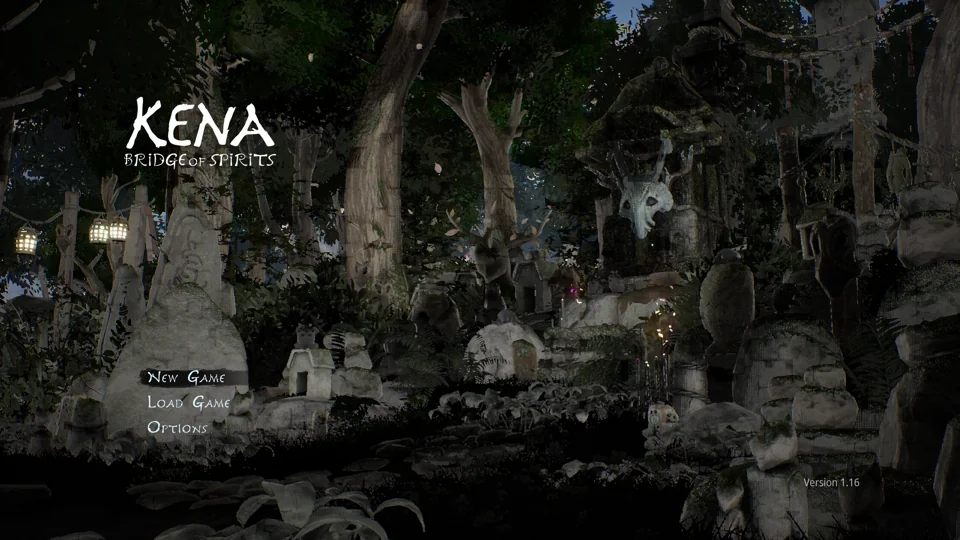
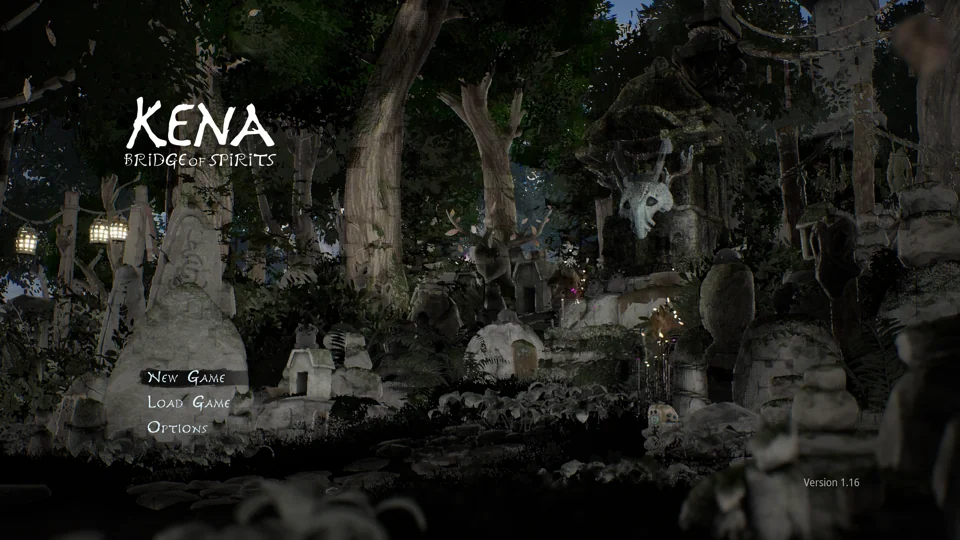
docs: Kena captures and record on current main (fc1d818a9) for #5174
Replaces the 2e44753ed-era captures with a run of this branch on
fc1d818a9: title world on even frames, noise on odd frames (#5175's
flicker, whose fix cannot reach cs 0x5008e80000 while it is refused at
pc692). Records that the pc692 refusal is a dispatcher block-entry EXEC
relation loss (#5173's area), not a never-written word, and points the
blog's flicker reference at #5175.

diff --git a/prosper/docs/gpu/RECOMPILER_REMAINING.md b/prosper/docs/gpu/RECOMPILER_REMAINING.md
@@ -444,7 +444,7 @@ without contradictory new evidence.
 | The corpus `fabricated-fresh-mask-source` group (and the same refusal in `fragment_loop_mask_exec`, `dynfetch_fold`, `rdna2_to_spirv_exec`) is launch-loaded VGPRs that `seed_vector_word_definedness` wrongly marks as placeholders | **Falsified program by program on main `28d4afcdd`.** Over main's 585 distinct-input replay refusals (139 programs, 14 titles), a build that marks the whole recorded launch range defined accepts **0 of 151 compute** replays: every sidecar's `TIDIG_COMP_CNT` already covers each thread-id VGPR read (8x8x1 records 1, 4x4x4 records 2), and the shell binds exactly those. It accepts 299 of 434 fragment replays, but 292 of them (40 programs, 3 titles) are FRONT_FACE in **schema-6 compile-case sidecars that predate #5072** and so cannot record `SPI_BARYC_CNTL`; supplying either encoding compiles all 292 with valid SPIR-V, and all 42 FRONT_FACE-enabled schema-7 sidecars record it. The other 7 (one Kena program) are native-interpolation barycentric old lanes kept by a narrowed write, a value this backend genuinely lacks. The remaining 286 comprise **285 refusals (97 programs) and one incomplete replay**, not 286 verified proof-gap verdicts. The retained source classification of the 98 non-admitted programs identifies 81 that keep a never-written old word outside a narrowed EXEC and later lose that scope; the incomplete replay remains unqualified. The red tests are the same shapes: never-written loop-carried `v8`, a GTA loop scope, and fixtures that read `v1` at `TIDIG_COMP_CNT=0`, `s0` without user SGPRs, or `v2`/`v9`/`v18` with one loaded input. Read `shader_inspect --inputs`'s `inputs-launch` line before attributing a refusal to seeding. | #5146, #5039, #5072 |
 | The dispatcher has no lattice that carries a word's EXEC confinement across a case entry, so one must be added ("confined to the block-entry EXEC", #5173's suggested direction) | **Falsified (#5173).** It exists: the compute Wave64 CFG pass carries `ActiveVectorWords.current`, the MUST set of words genuine in every lane of the CURRENT EXEC, and `load_state` re-anchors each such hard mark to the reloaded EXEC (`restore_active_vector_words`). Its EXEC transfer already keeps a word only through a proved narrowing or a restore of a saved mask whose words it tracks, and clears the set on any other EXEC write; joins intersect. Kena's seven compute programs lost words to two TRANSFER gaps instead: image, LDS and FORMAT-buffer reads never entered the set, and the relay MAY fact tainted a complete write whose sources were genuine in its EXEC (then `s_mov_b64 exec, -1` cleared the set). The suggested transfer is also unsound as worded: `s_and*` "with EXEC as an operand" includes `s_andn2_b64 exec, sX, exec` and `s_andn2_saveexec`, which select lanes OUTSIDE the old EXEC. Fixing the two transfers admits all seven and 28 other corpus programs (32 more refuse later), none newly refused | #5173 |
 | Kena's `fabricated-fresh-mask-source` refusals are one loss of EXEC confinement in the word-mark algebra (`union_marks`), so fixing the meet restores guard-off behaviour (dropped draws about 12.9k to 0.5k) | **Falsified for the algebra alone (#5167).** Traced with a local per-write mark trace over the 20 guard-blocked Kena programs: four arithmetic loss paths (a soft explicit operand vetoing a confined one, LDS and typed-buffer reads not counted as complete active-lane writers, the second if/else arm not completing the saved mask, nested owners met by equality at structured merges) were fixed. They admit 1 Kena program and 7 corpus programs and move 70 corpus refusals later. The remaining Kena losses are **EXEC-relation** losses, not arithmetic: dispatcher block entries re-mark relayed words hard with no owner (7 compute programs), narrowing-loop EXEC phis not admitted (4 programs, #5132's area), and reads of words confined to a narrower or sibling EXEC under a wider one (5 fragment programs; path-dependent or genuine). Two further rules (execz skip-edge restatement, forward-merge EXEC phi subset) changed **zero** of 2474 corpus outcomes and were dropped. A 120 s visible run keeps the title world black: 5,532 dropped draws before, 4,828 after | #5167, #5026 |
-| The gap between Kena's ~4.8k dropped draws (#5172) and the ~0.5k guard-off figure is the never-loaded-VGPR policy question of #5174 | **Falsified once the policy was implemented (#5174).** Admitting a never-written VGPR the launch inventory says hardware does not load changes **no** corpus verdict on its own and no Kena program: by same-binary arms over all 162 changed corpus entries, switching it off only moves two PPSA29343 refusals earlier. Kena's three newly accepted programs come from two proofs instead: a narrowed write over a *defined* old word is defined (cs 0x5008b00000, cs 0x500b1e0000; 137 of the 162 corpus changes), and the execz skip edge of a saved-mask partition joined under the restored launch EXEC (ps 0x5009050000; 20 entries, which need all three of the skip-edge restatement, the un-narrowed launch-owner read and the defined-old rule -- alone the skip-edge rule moves two, consistent with #5172's "zero"). A 120 s visible run: 5,180 dropped draws on main, 4,390 with the change, and the title world returns on alternate frames (the separate flicker). The traced remainder (ps 0x5006bd0000 pc940) reads a `v_mac` accumulation over never-loaded lanes under a sibling EXEC: a write, which the decision keeps hard | #5174, #5026 |
+| The gap between Kena's ~4.8k dropped draws (#5172) and the ~0.5k guard-off figure is the never-loaded-VGPR policy question of #5174 | **Falsified once the policy was implemented (#5174).** Admitting a never-written VGPR the launch inventory says hardware does not load changes **no** corpus verdict on its own and no Kena program: by same-binary arms over all 162 changed corpus programs, switching it off only moves two PPSA29343 refusals earlier. Kena's three newly accepted programs come from two proofs instead: a narrowed write over a *defined* old word is defined (cs 0x5008b00000, cs 0x500b1e0000; 137 of the 162 corpus changes), and the execz skip edge of a saved-mask partition joined under the restored launch EXEC (ps 0x5009050000; 20 entries, which need all three of the skip-edge restatement, the un-narrowed launch-owner read and the defined-old rule -- alone the skip-edge rule moves two, consistent with #5172's "zero"). A 120 s visible run on main `fc1d818a9`: 4,740 dropped draws and a black title, against 4,310 and the title world on alternate frames with the change (the odd frames are #5175's flicker: its fix cannot reach cs 0x5008e80000 while that program is refused at pc692). That pc692 refusal is not this class: no EXEC write separates its writes (v55-v57, pc590-608) from the pc677 read, so the lanes are defined in the guest; prosper loses the relation at a dispatcher block entry (#5173's area), and with that entry forced to keep the never-written fact the read is still a relay of those lanes, which the decision keeps hard. The traced remainder (ps 0x5006bd0000 pc940) reads a `v_mac` accumulation over never-loaded lanes under a sibling EXEC: a write, which the decision keeps hard | #5174, #5026 |
 | Different poisoned EXEC owners necessarily lose confinement when combined as current instruction sources | **Falsified by genuine emitted nested-owner controls.** Literal equality-only production passes 14/27 focused cases; retaining the smaller domain through existing immutable EXEC SSA ancestry passes 27/27, including implicit accumulator reads and carried obligations. An unsafe current-EXEC substitution fails four incomparable/disjoint/missing-relation negatives. At that qualification, predecessor and loop joins remained equality-only; #5172 extends structured predecessor joins using immutable subset facts, while context-free and loop joins keep equality. Unconfined DATA, later generations and widening do not acquire authority. This is CPU compiler evidence, not complete captured-program admission or rendering. | [#5116](https://github.com/mattias800/prosper/issues/5116), #5026 |
 | Checking only ordinary SGPR offsets authenticates every scalar buffer address | **Falsified at `6153bff7240d`.** Sixteen MUBUF/MTBUF M0/ttmp0 overwrite negatives compile across structured/native-dispatcher routes and direct/post-load edges; all 24 supplied scalar siblings compile and eight absent ordinary-SGPR siblings refuse. SCC offsets also retain missing/current-loop condition obligations, including an unproduced entry condition and one-arm joins. Check consumed Special DATA words before the load replaces its genuine old destination; preserve SGPR_NULL and exact native VCC/EXEC numeric materialization under their existing emitter gates. | [#5094](https://github.com/mattias800/prosper/issues/5094), [PR #5095](https://github.com/mattias800/prosper/pull/5095) |
 | A genuine whole-entry destination authenticates a new load result despite missing current address inputs | **Falsified independently of #5087.** The eight missing-low/high FLAT overwrite cases reproduce on both `33341994b27b` and `e51c773ef3f5`; matched genuine addresses compile. The same 44 public compiler controls linked read-only to the earlier core pass 35/44, including all 31 original cases. Snapshot current addresses before overlapping writes, inventory both FLAT pointer words, retain missing-source provenance across dispatcher edges, and record loop-address obligations at the load without marking genuine loaded data as fabricated. | [#5094](https://github.com/mattias800/prosper/issues/5094), [PR #5095](https://github.com/mattias800/prosper/pull/5095) |

diff --git a/BLOG.md b/BLOG.md
@@ -21,12 +21,12 @@ from the tracker issues, and still gated, because it is a projection of state ra
 
 ## 2026-10-15
 
-### Kena's recorded title world with the fresh-mask guard enabled
+### Kena's title world renders on a default build, every other frame
 
-With the fresh-mask guard still on, *Kena*'s title menu draws over its forest-shrine world in this recorded run, alternating with block-noise frames ([#5026](https://github.com/mattias800/prosper/issues/5026)). These captures predate the combined changes now on main.
+With the fresh-mask guard on, *Kena*'s title menu now draws over its forest-shrine world; the odd frames stay noise until the flicker fix ([#5175](https://github.com/mattias800/prosper/issues/5175)) can reach its compute program, which a separate dispatcher refusal still blocks ([#5174](https://github.com/mattias800/prosper/issues/5174)).
 
-<p align="center"><img src="assets/screenshots/issue-5174-kena-title-world.webp" alt="Kena: Bridge of Spirits title menu over the forest shrine world; Linux RADV prosper-app, default guard, PROSPER_NULL_PAGE=1 and -force-gfx-direct, pad flip 251"></p>
-<p align="center"><img src="assets/screenshots/issue-5174-kena-title-flicker-sheet.webp" alt="Contact sheet of 65 frames from flips 220 to 420 of the same run: 32 show the world, 33 show full-screen block noise under the menu"></p>
+<p align="center"><img src="assets/screenshots/issue-5174-kena-title-world.webp" alt="Kena: Bridge of Spirits title menu over the forest shrine world; Linux RADV prosper-app, default guard, PROSPER_NULL_PAGE=1 and -force-gfx-direct, pad flip 240"></p>
+<p align="center"><img src="assets/screenshots/issue-5174-kena-title-flicker-sheet.webp" alt="Contact sheet of 97 frames from flips 220 to 420 of the same run: 48 show the world, 49 show full-screen block noise under the menu"></p>
 
 ### Kena's title world no longer flickers to noise on every other frame
 
